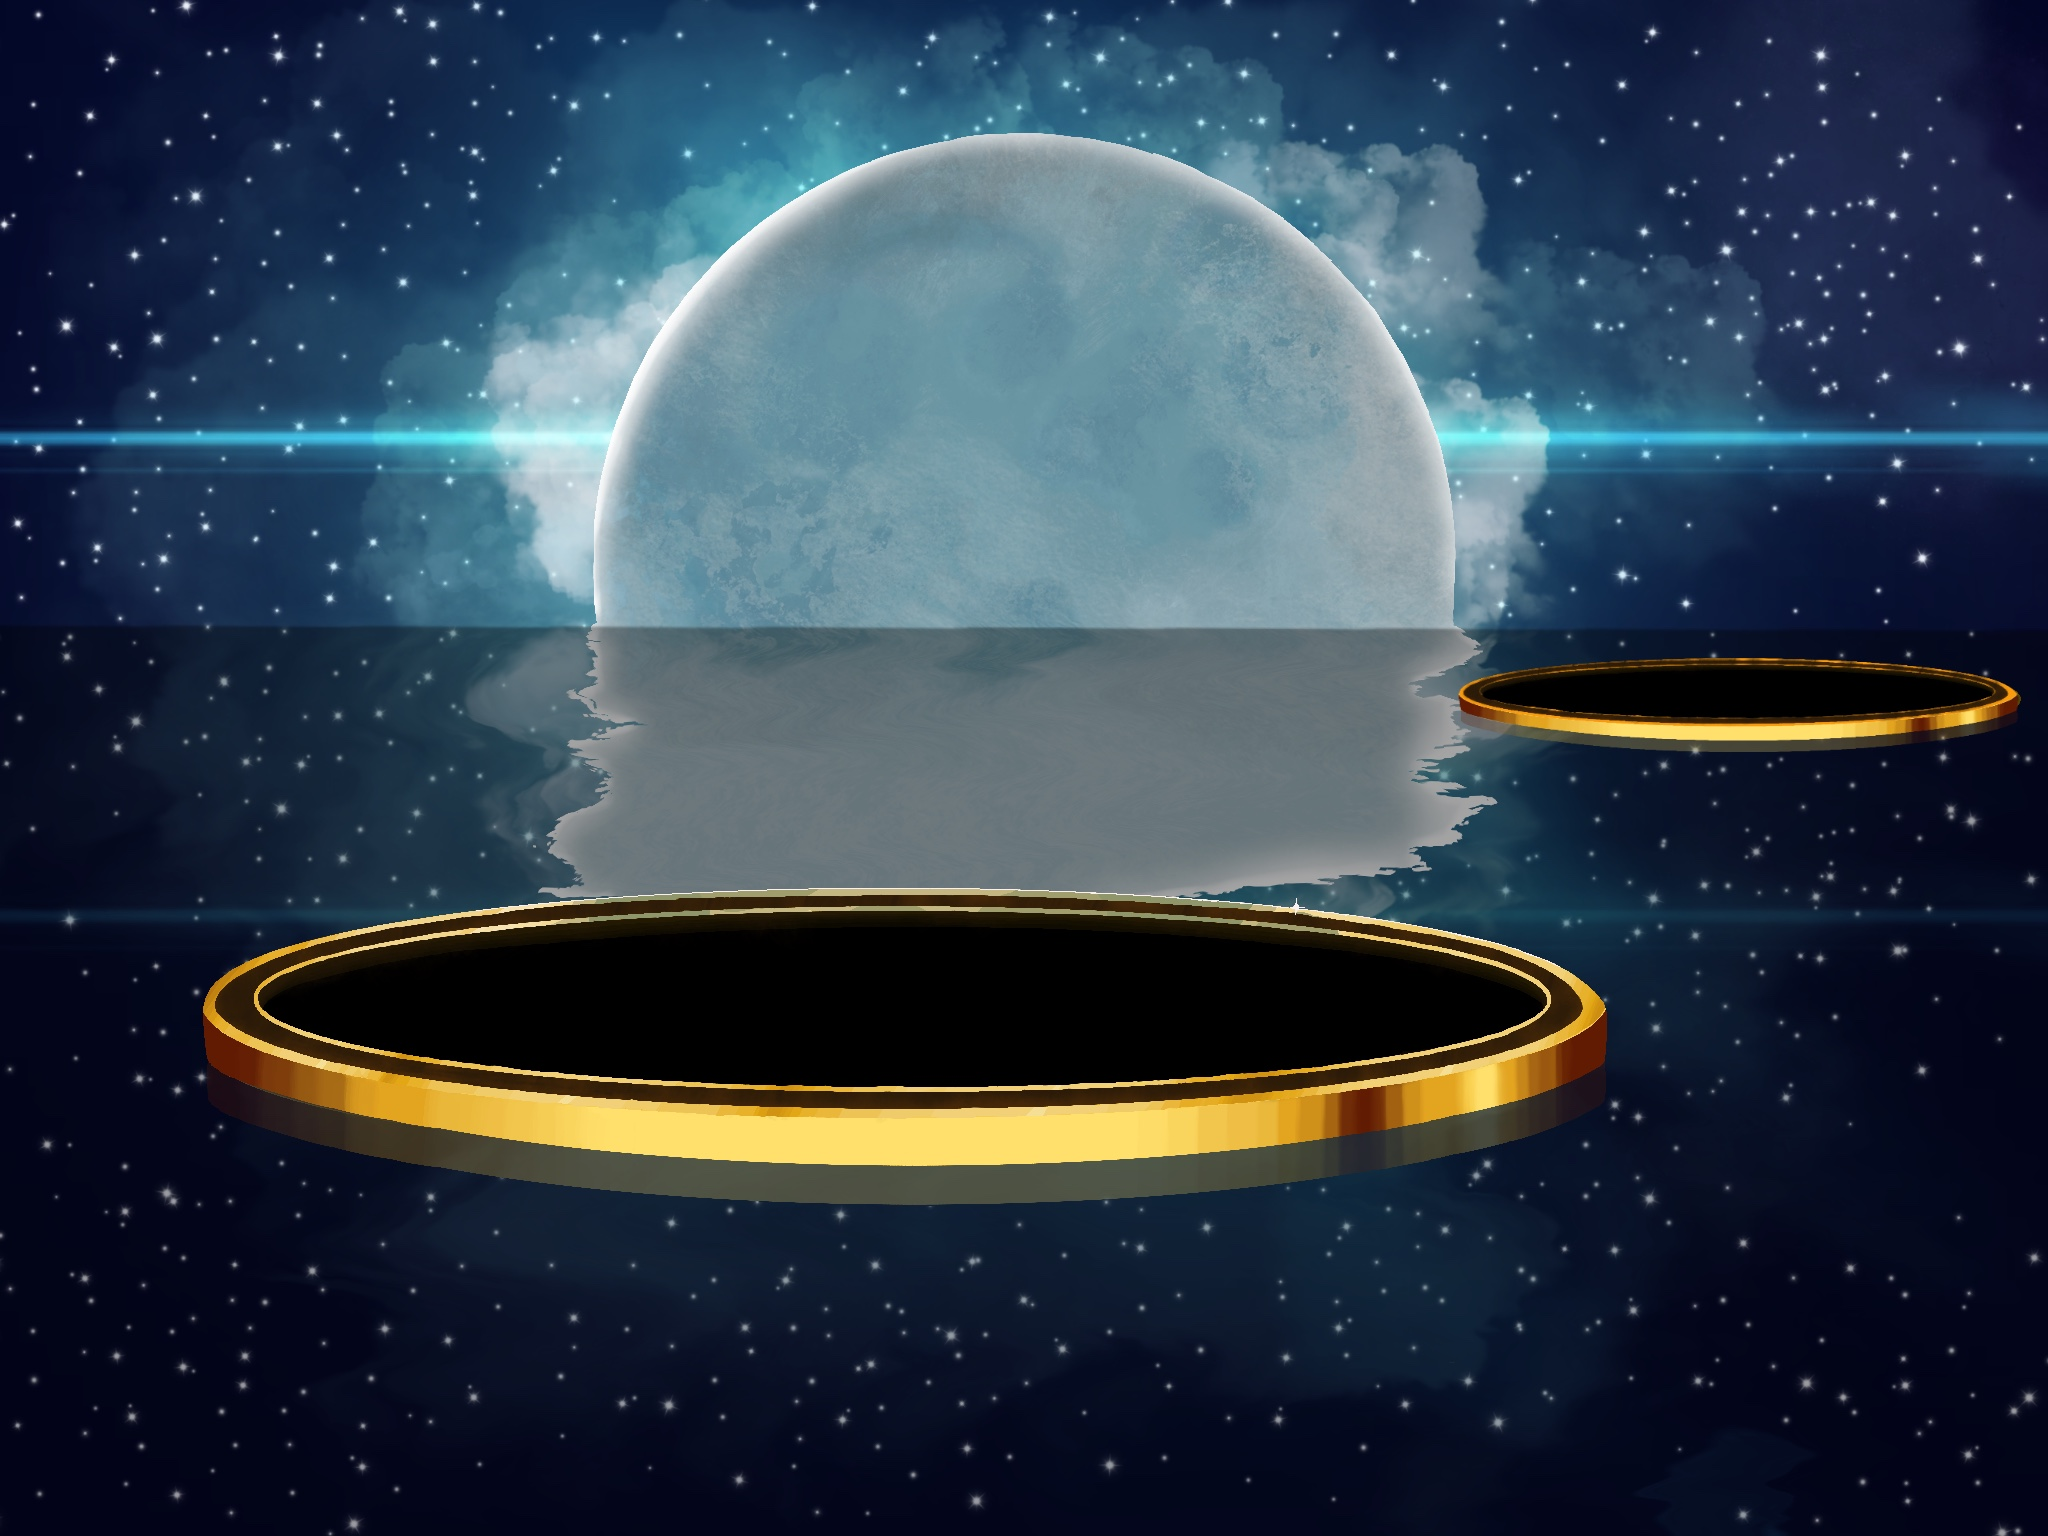
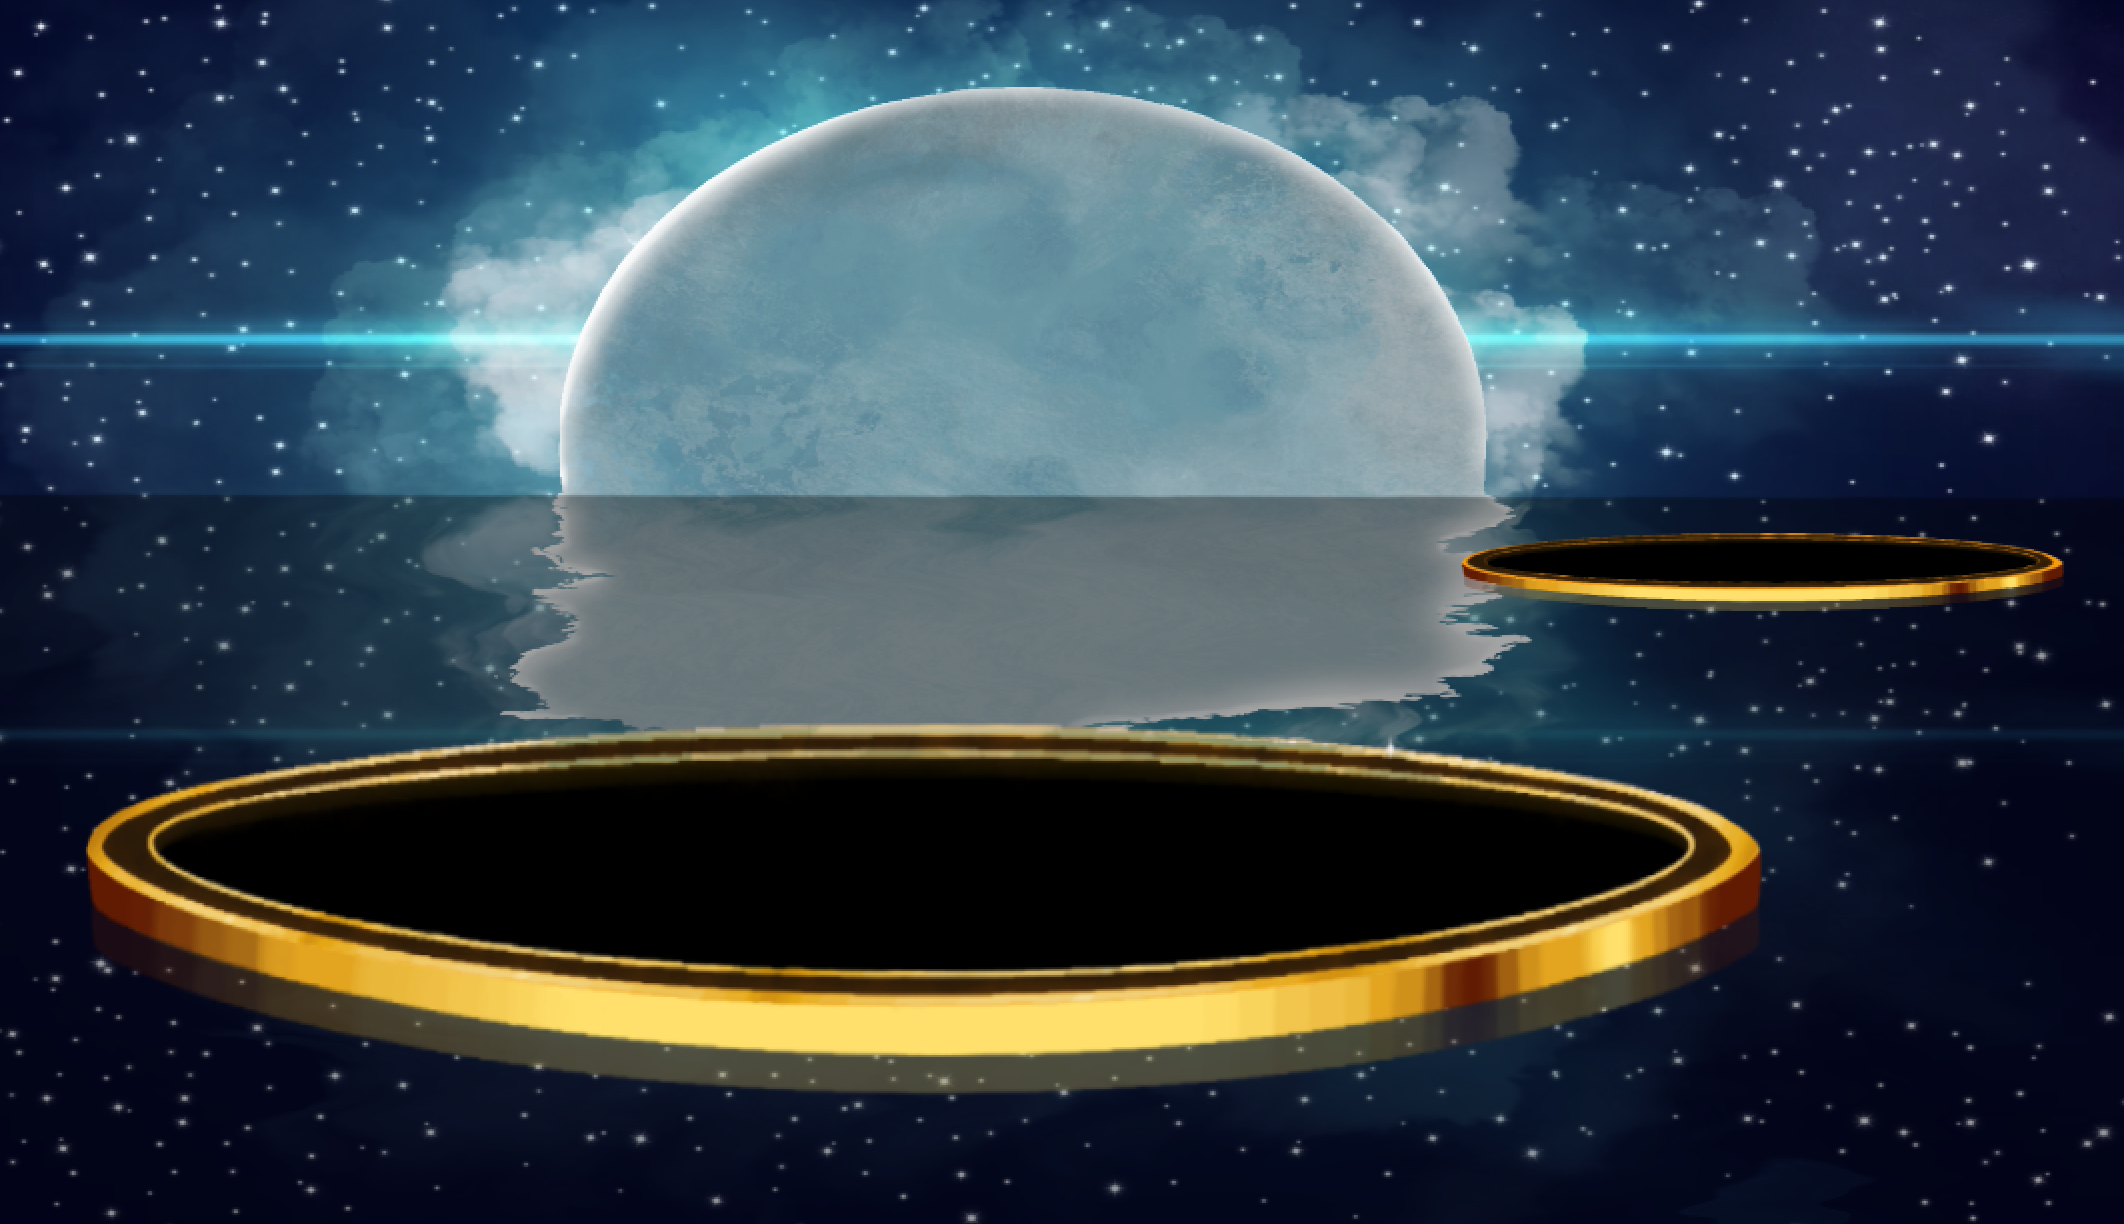
sdflksdjf

diff --git a/launcher-N.py b/launcher-N.py
@@ -29,8 +29,9 @@ class Pokemon():
 import time
 import random
 
-my_poke = [Pokemon("Shroomagus")]
+my_poke = [Pokemon("Shroomagus"), Pokemon("Shroomancer")]
 my_poke[0].atks = ["dash_Sword", "dash_SFire", "Elec_Spell"]
+my_poke[1].atks = ["dash_Sword", "dash_SFire", "Elec_Spell"]
 #my_poke[1].atks = ["dash_Sword", "dash_SFire", "Elec_Spell"]
 #my_poke[2].atks = ["Elec_Spell", "Plasma", "Elec_Spell"]
 
